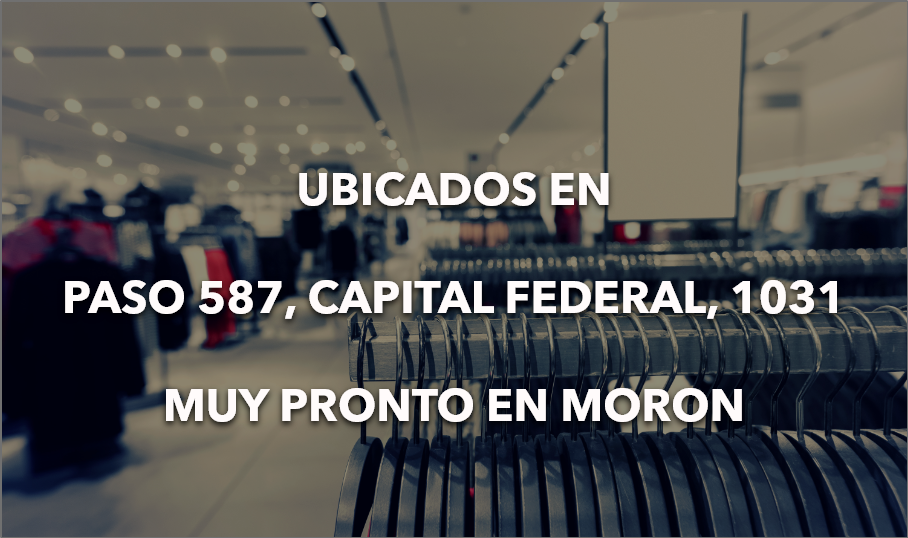
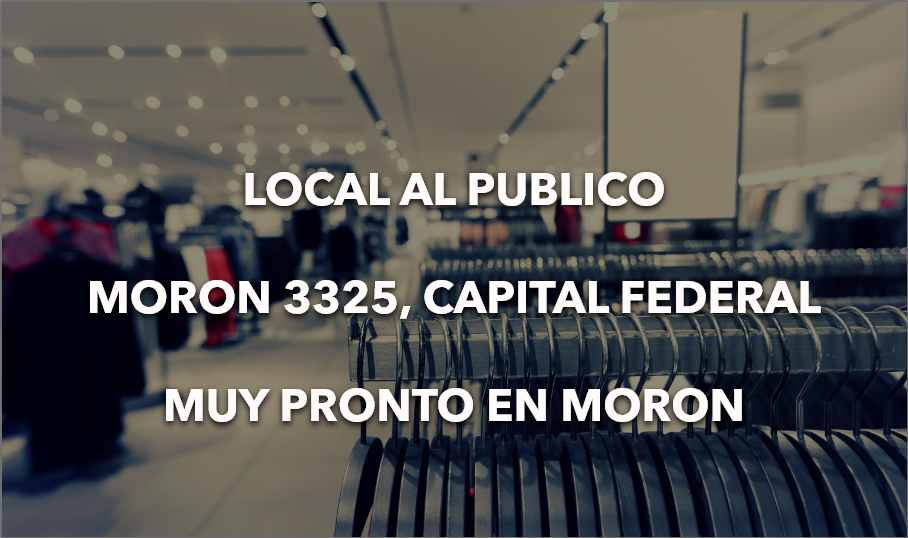
Update fix

Changed region(s): [[0.0617, 0.5056, 0.9251, 0.5948], [0.2467, 0.2974, 0.7401, 0.4164]]

diff --git a/css/main.css b/css/main.css
@@ -565,7 +565,7 @@ nav .menu-btn:checked ~ .menu-icon:not(.steps) .navicon:after {
 
   .swiper-slide { width: 100vw; display: flex; align-items: center;  justify-content: center; background-color: #fff;}
 
-  .swiper-container .slide1{ background: url(../img/Banner1.png) no-repeat; background-size: cover; width: 100%; }
+  .swiper-container .slide1{ background: url(../img/Banner1.png) no-repeat; background-size: cover; width: 100%; background-position-x: 18%;}
 
   .swiper-container .slide2{ background: url(../img/Banner2.png) no-repeat; background-size: cover; width: 100%; }
 
@@ -866,6 +866,8 @@ nav .menu-btn:checked ~ .menu-icon:not(.steps) .navicon:after {
             float: right;
       }
 
+
+
         #sized{
                display: flex;
                height: 65px;
@@ -896,27 +898,43 @@ nav .menu-btn:checked ~ .menu-icon:not(.steps) .navicon:after {
       .seccion1__content { flex-direction: column; padding: 5vh 0vh 5vh; }
 
       .right, .left{ padding-top: 10vh; }
+      .left{ padding: 0; }
 
       .seccion3__title {  font-size: 20px; }
       .seccion3__texto { font-size: 18px; }
       .seccion3__content { width: 90%;  }
+
+      .seccion3 {
+
+          height: 700px; }
 
       button.seccion3__button { margin-top: 60px; }
 
       .comocomprar {
           margin-top: 30px;
           margin-bottom: 30px;
-          height: 100%;
+          height: auto;
       }
-      .comocomprar__content { flex-direction: column; padding: 0; width: 80%;     margin-bottom: 50px;}
+      .comocomprar__content { flex-direction: column; padding: 0; width: 80%;     margin-bottom: 50px;     height: 100%;     text-align: center;
+    left: 50%;
+    transform: translateX(-50%);}
 
       .comocomprar__picture { flex-direction: column; }
 
       .contacto{ width: 100%; }
 
       .contacto__mapa {
+          flex-direction: column;
+          padding: 0;
           width: 100%;
           margin-bottom: 50px;
+          height: 100%;
+          margin-top: 50px;
+          width: 100%;
+          display: block;
+          left: 50%;
+          /*transform: translateX( -50%);*/
+          text-align: center;
       }
 
       .contacto__mapa iframe{ width: 90%!important; }
@@ -929,6 +947,11 @@ nav .menu-btn:checked ~ .menu-icon:not(.steps) .navicon:after {
       .contacto__content form label{ width: 90%; margin-bottom: 10px;}
 
       .contacto__content form { display: flex;flex-direction: column; width: 100%;  align-items: center;}
+
+
+
+      .comocomprar__title {
+          font-size: 28px; }
 
       .footer__seccion1{ height: 15%; display: flex;  align-items: center;  margin-top: 30px;}
       .footer__seccion2, .footer__seccion3 {  height: auto;}

diff --git a/como-comprar.html b/como-comprar.html
@@ -110,7 +110,7 @@
                   <h1><b>COMPRA MAYORISTA</b></h1>
 
                   <p class="comocomprar__texto">Si sos de Capital Federal o GBA podes acercarte al local 
-                      en la calle Paso 587 Cap Fed. <br> <br>
+                      en la calle Moron 3325 Cap Fed. <br> <br>
 
                       Si sos del interior del país el pedido los podes hacer por whatsapp <a class="gotolink" target="_blank" href="https://api.whatsapp.com/send?phone=+541131977979">1131977979 <img class="iconsize" src="img/whatsapp.png"></a>  ,
                        por mail <a class="gotolink" href="mailto: info@remerasdedama.com.ar">info@remerasdedama.com.ar</a> ) o 
@@ -124,7 +124,7 @@
                       Tarjeta o Contrareembolso.</p>
                  
                    <h1><b>COMPRA MINORISTA</b></h1>
-                   <p class="comocomprar__texto">Te esperamos en el local de la calle Paso 587 Cap Fed. </p>
+                   <p class="comocomprar__texto">Te esperamos en el local de la calle Moron 3325 Cap Fed. </p>
                    
             </div>
 
@@ -149,7 +149,7 @@
      <div class="footer__seccion2">
        <ul>
          <li>
-           <img class="footer__seccion2__img" src="img/map2.png"> <p>Eric Laurant <br> Paso 587, Capital Federal, 1031.</p> 
+           <img class="footer__seccion2__img" src="img/map2.png"> <p>Eric Laurant <br> Moron 3325, Capital Federal, 1031.</p> 
          </li>
          <li>
            <img class="footer__seccion2__img" src="img/whatsapp2.png"> <p> <a target="_blank" class="blank hoverbigblank" href="https://api.whatsapp.com/send?phone=+541131977979">11-3197-7979</a></p>

diff --git a/contacto.html b/contacto.html
@@ -135,7 +135,7 @@
             <div class="contacto__mapa">
                 <iframe src="https://www.google.com/maps/embed?pb=!1m18!1m12!1m3!1d3284.077316047177!2d-58.40571808555241!3d-34.60220638045992!2m3!1f0!2f0!3f0!3m2!1i1024!2i768!4f13.1!3m3!1m2!1s0x95bcca92e43cbdef%3A0xcc50f4c5bc61b35a!2sPaso%20587%2C%20C1031ABK%20CABA!5e0!3m2!1ses!2sar!4v1580094883601!5m2!1ses!2sar" width="600" height="300" frameborder="0" style="border:0;" allowfullscreen=""></iframe>
 
-                <p>Paso 587, Capital Federal, 1031.</p>
+                <p>Moron 3325, Capital Federal, 1031.</p>
             </div>
          
         </section>
@@ -155,7 +155,7 @@
       <div class="footer__seccion2">
         <ul>
           <li>
-            <img class="footer__seccion2__img" src="img/map2.png"> <p>Eric Laurant <br> Paso 587, Capital Federal, 1031.</p> 
+            <img class="footer__seccion2__img" src="img/map2.png"> <p>Eric Laurant <br> Moron 3325, Capital Federal, 1031.</p> 
           </li>
           <li>
             <img class="footer__seccion2__img" src="img/whatsapp2.png"> <p> <a target="_blank" class="blank hoverbigblank" href="https://api.whatsapp.com/send?phone=+541131977979">11-3197-7979</a></p>
@@ -255,7 +255,7 @@
 
                 if( data.success ) {
 
-
+                  $('#back-success').empty();
                   $('#back-success').html('<p style="color:green;">Mensaje Enviado!, Gracias por contactarnos.</p>');
                   $('#nombre').val("");
                   $('#telefono').val("");

diff --git a/index.html b/index.html
@@ -199,7 +199,7 @@ Nos especializamos en la confección de Remeras e indumentaria.</p>
      <div class="footer__seccion2">
        <ul>
          <li>
-           <img class="footer__seccion2__img" src="img/map2.png"> <p>Eric Laurant <br> Paso 587, Capital Federal, 1031.</p> 
+           <img class="footer__seccion2__img" src="img/map2.png"> <p>Eric Laurant <br> Moron 3325, Capital Federal, 1031.</p> 
          </li>
          <li>
            <img class="footer__seccion2__img" src="img/whatsapp2.png"> <p> <a target="_blank" class="blank hoverbigblank" href="https://api.whatsapp.com/send?phone=+541131977979">11-3197-7979</a></p>

diff --git a/galeria.html b/galeria.html
@@ -230,7 +230,7 @@
       <div class="footer__seccion2">
         <ul>
           <li>
-            <img class="footer__seccion2__img" src="img/map2.png"> <p>Eric Laurant <br> Paso 587, Capital Federal, 1031.</p> 
+            <img class="footer__seccion2__img" src="img/map2.png"> <p>Eric Laurant <br> Moron 3325, Capital Federal, 1031.</p> 
           </li>
           <li>
             <img class="footer__seccion2__img" src="img/whatsapp2.png"> <p> <a target="_blank" class="blank hoverbigblank" href="https://api.whatsapp.com/send?phone=+541131977979">11-3197-7979</a></p>
